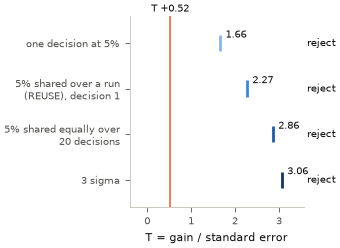
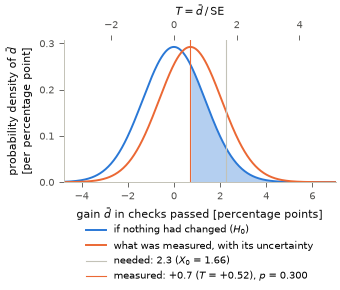
a comparison's test figure as two curves in percentage points: what chance alone would give and what was measured, with T on the upper axis

diff --git a/src/mas_optimiser/stats/figures.py b/src/mas_optimiser/stats/figures.py
@@ -8,7 +8,8 @@ each as PDF and PNG, each with one thing to show:
 - ``differences``: how many tasks rose, fell and stayed the same;
 - ``detectable``: the chance that a real gain of each size is accepted under
   each decision rule, with the minimum detectable effects and the gain observed;
-- ``decisions``: the observed statistic against the bar of each rule.
+- ``decisions``: the gain measured, with its uncertainty, against the gains
+  chance alone would give.
 
 ``draw_calibration`` does the same for a calibration's folder
 (``scores.csv``, ``pulls.csv``, ``calibration.csv``) with three figures:
@@ -28,7 +29,6 @@ backend and needs no display.
 Sources: ``docs/how-it-works.md``, section 6, the rows for ``stats``.
 """
 
-import textwrap
 from pathlib import Path
 
 import matplotlib
@@ -240,65 +240,64 @@ def detectable(tests: pd.DataFrame, rules: pd.DataFrame, out: Path) -> None:
 
 
 def decisions(tests: pd.DataFrame, rules: pd.DataFrame, out: Path) -> None:
-    """The observed statistic against the bar of each decision rule.
+    """The gain measured, with its uncertainty, against the gains chance alone would give.
 
-    One row per rule with a mark at its bar on T; the vertical line is the T
-    observed on all tasks. A rule accepts when its bar lies to the left of
-    that line; each row's verdict is written beside it.
+    Two curves on the gain's own axis, in percentage points, both theory and
+    both as wide as the standard error: how the gain would be spread if
+    nothing had changed, centred on zero, and what this comparison measured,
+    centred on its gain. The upper axis gives the same positions in units of
+    T, the gain divided by the standard error, so the grey line, the gain the
+    comparison's rule needs, stands at the bar and the measured gain at the T
+    observed. The candidate is accepted when the measured gain lies beyond
+    the grey line. The part of the first curve beyond the measured gain,
+    shaded, is p.
 
     Args:
         tests: The tests, as ``tests.csv`` holds them.
-        rules: The decision rules, as ``rules.csv`` holds them.
+        rules: The decision rules, as ``rules.csv`` holds them; they name the
+            outcome that decides.
         out: The folder to write ``decisions.pdf`` and ``decisions.png`` into.
     """
     outcome = rules["outcome"].iloc[0]
-    t = tests[(tests["outcome"] == outcome) & (tests["set"] == "all")].iloc[0]["t"]
-    rows = rules.iloc[::-1]
+    row = tests[(tests["outcome"] == outcome) & (tests["set"] == "all")].iloc[0]
+    gain, se = row["gain_percentage_points"], row["standard_error_percentage_points"]
+    needed, n = row["bar"] * se, int(row["tasks"])
+    x = np.linspace(min(0.0, gain) - 3.5 * se, max(needed, gain) + 3.5 * se, 400)
+    # Student's t, stretched from standard errors to percentage points.
+    unchanged = stats.t.pdf(x / se, n - 1) / se
     with plt.style.context(STYLE):
-        fig, ax = plt.subplots(figsize=(3.4, 0.42 * len(rows) + 0.8))
-        ax.axvline(t, color=OBSERVED, linewidth=1.2)
-        ax.text(
-            t,
-            1.01,
-            f"T {t:+.2f}",
-            transform=ax.get_xaxis_transform(),
-            ha="center",
-            va="bottom",
-            color=INK,
-            fontsize=7,
+        fig, ax = plt.subplots(figsize=(3.4, 2.9))
+        ax.plot(x, unchanged, color=THEORY, label="if nothing had changed ($H_0$)")
+        ax.plot(
+            x,
+            stats.t.pdf((x - gain) / se, n - 1) / se,
+            color=OBSERVED,
+            label="what was measured, with its uncertainty",
         )
-        ax.scatter(
-            rows["bar"],
-            range(len(rows)),
-            marker="|",
-            s=140,
-            linewidths=2,
-            color=RAMP(np.linspace(1, 0, len(rows))),
+        ax.fill_between(
+            x, unchanged, where=x >= gain, color=THEORY, alpha=0.35, linewidth=0
         )
-        for y, (_, rule) in enumerate(rows.iterrows()):
-            ax.annotate(
-                f"{rule['bar']:.2f}",
-                (rule["bar"], y),
-                xytext=(4, 4),
-                textcoords="offset points",
-                color=INK,
-                fontsize=7,
-            )
-            ax.text(
-                1.02,
-                y,
-                rule["verdict"],
-                transform=ax.get_yaxis_transform(),
-                va="center",
-                color=INK,
-                fontsize=7,
-            )
-        ax.set_yticks(
-            range(len(rows)), [textwrap.fill(name, 24) for name in rows["rule"]]
+        ax.axvline(
+            needed,
+            color=REFERENCE,
+            linewidth=0.8,
+            label=f"needed: {needed:.1f} ($X_0$ = {row['bar']:.2f})",
         )
-        ax.set_ylim(-0.6, len(rows) - 0.4)
-        ax.set_xlim(min(0.0, t) - 0.4, max(rows["bar"].max(), t) + 0.5)
-        ax.set_xlabel("T = gain / standard error")
+        ax.axvline(
+            gain,
+            color=OBSERVED,
+            linewidth=0.8,
+            label=f"measured: {gain:+.1f} ($T$ = {row['t']:+.2f}), $p$ = {row['p']:.3f}",
+        )
+        ax.set_xlim(x[0], x[-1])
+        ax.set_ylim(0, None)
+        ax.set_xlabel(f"gain $\\bar{{d}}$ in {outcome} [percentage points]")
+        ax.set_ylabel("probability density of $\\bar{d}$\n[per percentage point]")
+        # The same positions in standard errors: the axis of the test.
+        above = ax.twiny()
+        above.set_xlim(x[0] / se, x[-1] / se)
+        above.set_xlabel("$T = \\bar{d}\\,/\\,\\mathrm{SE}$")
+        ax.legend(loc="upper center", bbox_to_anchor=(0.5, -0.24), ncol=1)
     _save(fig, out, "decisions")
 
 

diff --git a/tests/unit/test_compare.py b/tests/unit/test_compare.py
@@ -6,6 +6,7 @@ import csv
 import numpy as np
 import pandas as pd
 import pytest
+from scipy import stats
 
 from mas_optimiser.stats import compare, figures, outcomes
 from tests.unit.test_stats import write_evaluation
@@ -160,6 +161,23 @@ def test_figures_are_redrawn_from_the_data_files_alone(tmp_path):
         for name in ("gains", "differences", "detectable", "decisions")
         for ext in ("pdf", "png")
     )
+
+
+def test_the_decisions_figure_shades_the_p_the_file_holds_and_takes_any_gain(tmp_path):
+    out = compared(*sides(tmp_path), tmp_path / "cmp")
+    tests, rules = pd.read_csv(out / "tests.csv"), pd.read_csv(out / "rules.csv")
+    whole = (tests["set"] == "all") & (tests["outcome"] == "checks passed")
+    row = tests[whole].iloc[0]
+    # The area the figure shades, the tail of Student's t beyond the gain
+    # measured, is the p the report prints (the file keeps six digits).
+    assert stats.t.sf(row["t"], row["tasks"] - 1) == pytest.approx(row["p"], rel=1e-4)
+    # A candidate that is worse, and one far beyond the bar, are drawn as well.
+    se = row["standard_error_percentage_points"]
+    for t in (-2.4, row["bar"] + 3.0):
+        tests.loc[whole, ["t", "gain_percentage_points"]] = t, t * se
+        tests.loc[whole, "p"] = stats.t.sf(t, row["tasks"] - 1)
+        figures.decisions(tests, rules, tmp_path / f"t{t:+.1f}")
+        assert (tmp_path / f"t{t:+.1f}" / "decisions.png").exists()
 
 
 def test_identical_sides_give_a_report_without_a_test(tmp_path):

diff --git a/src/mas_optimiser/stats/compare.py b/src/mas_optimiser/stats/compare.py
@@ -84,9 +84,14 @@ CAPTIONS = {
     "differences": "How many tasks rose, fell and stayed the same, in bins ten "
     "percentage points wide. The grey bar is the tasks that did not change; "
     "the line is the mean, which is the gain.",
-    "decisions": "The T observed (the vertical line) against the bar of each "
-    "decision rule (the marks). A rule accepts when its bar lies to the left "
-    "of the line.",
+    "decisions": "How the gain would be spread if nothing had changed (blue, "
+    "centred on zero) and what this comparison measured, with its uncertainty "
+    "(orange, centred on the measured gain). Both curves are theory and are as "
+    "wide as the standard error. The lower axis is the gain in percentage "
+    "points and the upper axis the same positions in units of T. The grey "
+    "line is the gain needed at the comparison's rule, which stands at the "
+    "bar on T: the candidate is accepted when the measured gain lies to its "
+    "right. The shaded part of the blue curve beyond the measured gain is p.",
     "detectable": "The chance that a real gain of each size would be accepted "
     "under each decision rule: theory, from this comparison's standard error. "
     "Each curve crosses 80% at that rule's minimum detectable effect, marked; the vertical "

diff --git a/docs/methodology/acceptance-gate.md b/docs/methodology/acceptance-gate.md
@@ -598,10 +598,18 @@ strictest last:
 | 3 sigma                                  | 0.135%                      | 3.06         | reject    | 5.3                                             |
 
 :::{figure} ../figures/gate/figures/decisions.png
-:alt: The observed statistic against the bar of each decision rule
+:alt: The gain measured between the two baseline runs, with its uncertainty, against the gains chance alone would give
 
-The $T$ observed between the two baseline runs, the vertical line, against
-the bar of each rule; it lies to the left of every bar.
+How the gain would be spread if nothing had changed (blue, centred on zero)
+and what the comparison of the two baseline runs measured, with its
+uncertainty (orange, centred on +0.7). Both curves are theory and are as
+wide as the standard error. The lower axis is the gain $\bar d$ in
+percentage points and the upper axis the same positions in units of $T$, so
+the grey line, the gain needed at 5%, stands at the bar $X_0$ and the orange
+line at the $T$ observed. The measured gain falls well short of the 2.3
+percentage points needed, and the shaded part of the blue curve beyond it is
+$p$. The two curves nearly coincide, as they should for two runs of one
+harness.
 :::
 
 Each figure of a comparison is drawn from the comparison's data files by
@@ -612,7 +620,7 @@ Each figure of a comparison is drawn from the comparison's data files by
 | `gains` | `tests.csv`: `set`, `tasks`, `gain_percentage_points`, `lower_bound_percentage_points` | `stats.figures.gains` |
 | `differences` | `differences.csv`: `checks_passed_difference_percentage_points` | `stats.figures.differences` |
 | `detectable` | `tests.csv`: `standard_error_percentage_points`, `tasks`, `gain_percentage_points`; `rules.csv`: `false_acceptances_allowed_percent`, `minimum_detectable_effect_percentage_points`; the curves from `stats.gate.power` | `stats.figures.detectable` |
-| `decisions` | `tests.csv`: `t`; `rules.csv`: `bar`, `verdict` | `stats.figures.decisions` |
+| `decisions` | `tests.csv`: `gain_percentage_points`, `standard_error_percentage_points`, `bar`, `p`, `tasks`; the curves from Student's $t$ | `stats.figures.decisions` |
 
 Earlier work on acceptance rules for harness edits showed what happens
 without a noise term: on the same two runs, a rule that keeps any candidate

diff --git a/docs/figures/gate/comparison.md b/docs/figures/gate/comparison.md
@@ -73,7 +73,7 @@ Gain, standard error, lower bound, minimum detectable effect and bootstrap stand
 
 ![decisions](figures/decisions.png)
 
-*The T observed (the vertical line) against the bar of each decision rule (the marks). A rule accepts when its bar lies to the left of the line.*
+*How the gain would be spread if nothing had changed (blue, centred on zero) and what this comparison measured, with its uncertainty (orange, centred on the measured gain). Both curves are theory and are as wide as the standard error. The lower axis is the gain in percentage points and the upper axis the same positions in units of T. The grey line is the gain needed at the comparison's rule, which stands at the bar on T: the candidate is accepted when the measured gain lies to its right. The shaded part of the blue curve beyond the measured gain is p.*
 
 ![detectable](figures/detectable.png)
 
